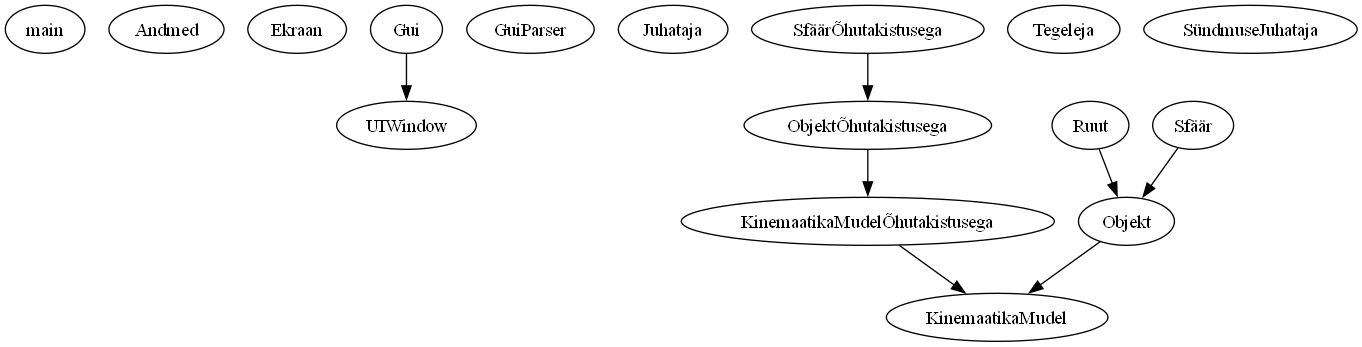
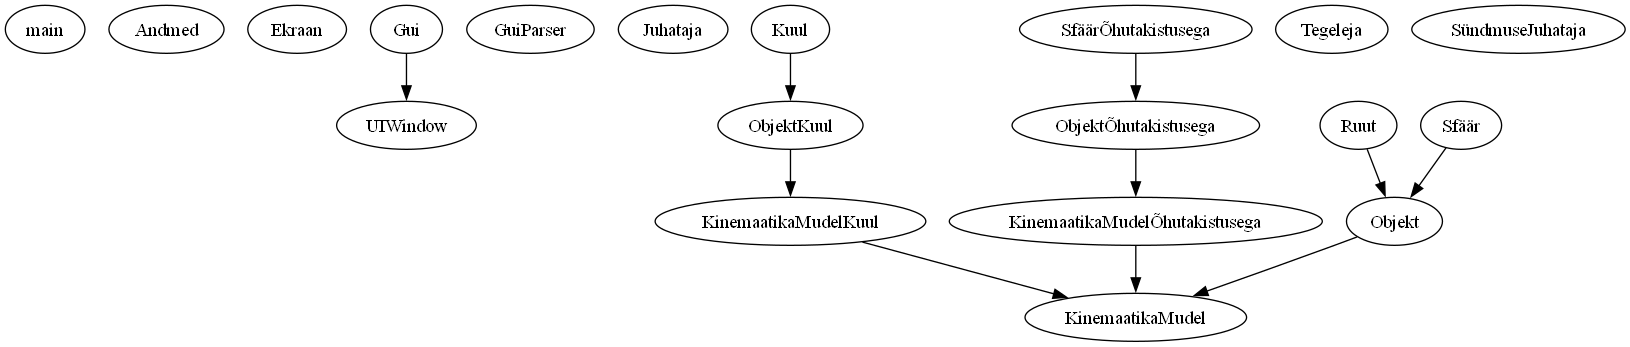
2.0.1.1

diff --git a/ksk/mudlid/KinemaatikaMudelKuul.py b/ksk/mudlid/KinemaatikaMudelKuul.py
@@ -6,22 +6,22 @@ andmed = Andmed().andmed
 
 class KinemaatikaMudelKuul(KinemaatikaMudel):
     G1_DRAG_TABLE  = [
-    (0.0, 1.0),     # Subsonic
-    (0.2, 0.85),    # Subsonic
-    (0.4, 0.75),    # Subsonic
-    (0.6, 0.65),    # Subsonic
-    (0.8, 0.55),    # Transonic
-    (1.0, 0.50),    # Transonic (Mach 1)
-    (1.2, 0.45),    # Supersonic
-    (1.4, 0.42),    # Supersonic
-    (1.6, 0.40),    # Supersonic
-    (1.8, 0.38),    # Supersonic
-    (2.0, 0.35),    # Supersonic
-    (2.5, 0.32),    # Supersonic
-    (3.0, 0.30),    # Hypersonic
-    (4.0, 0.28),    # Hypersonic
-    (5.0, 0.27),    # Hypersonic
-]
+        (0.0, 1.0),
+        (0.2, 0.85),
+        (0.4, 0.75),
+        (0.6, 0.65),
+        (0.8, 0.55),
+        (1.0, 0.50),
+        (1.2, 0.45),
+        (1.4, 0.42),
+        (1.6, 0.40),
+        (1.8, 0.38),
+        (2.0, 0.35),
+        (2.5, 0.32),
+        (3.0, 0.30),
+        (4.0, 0.28),
+        (5.0, 0.27),
+    ]
 
     def __init__(self, esialgne_kiirus: float, nurk: float, gravitatsioon: float, dt: float, 
                  suurus: float, raskus: float, tõmbekoefitsient: float, ballistilinekoefitsient: float, 
